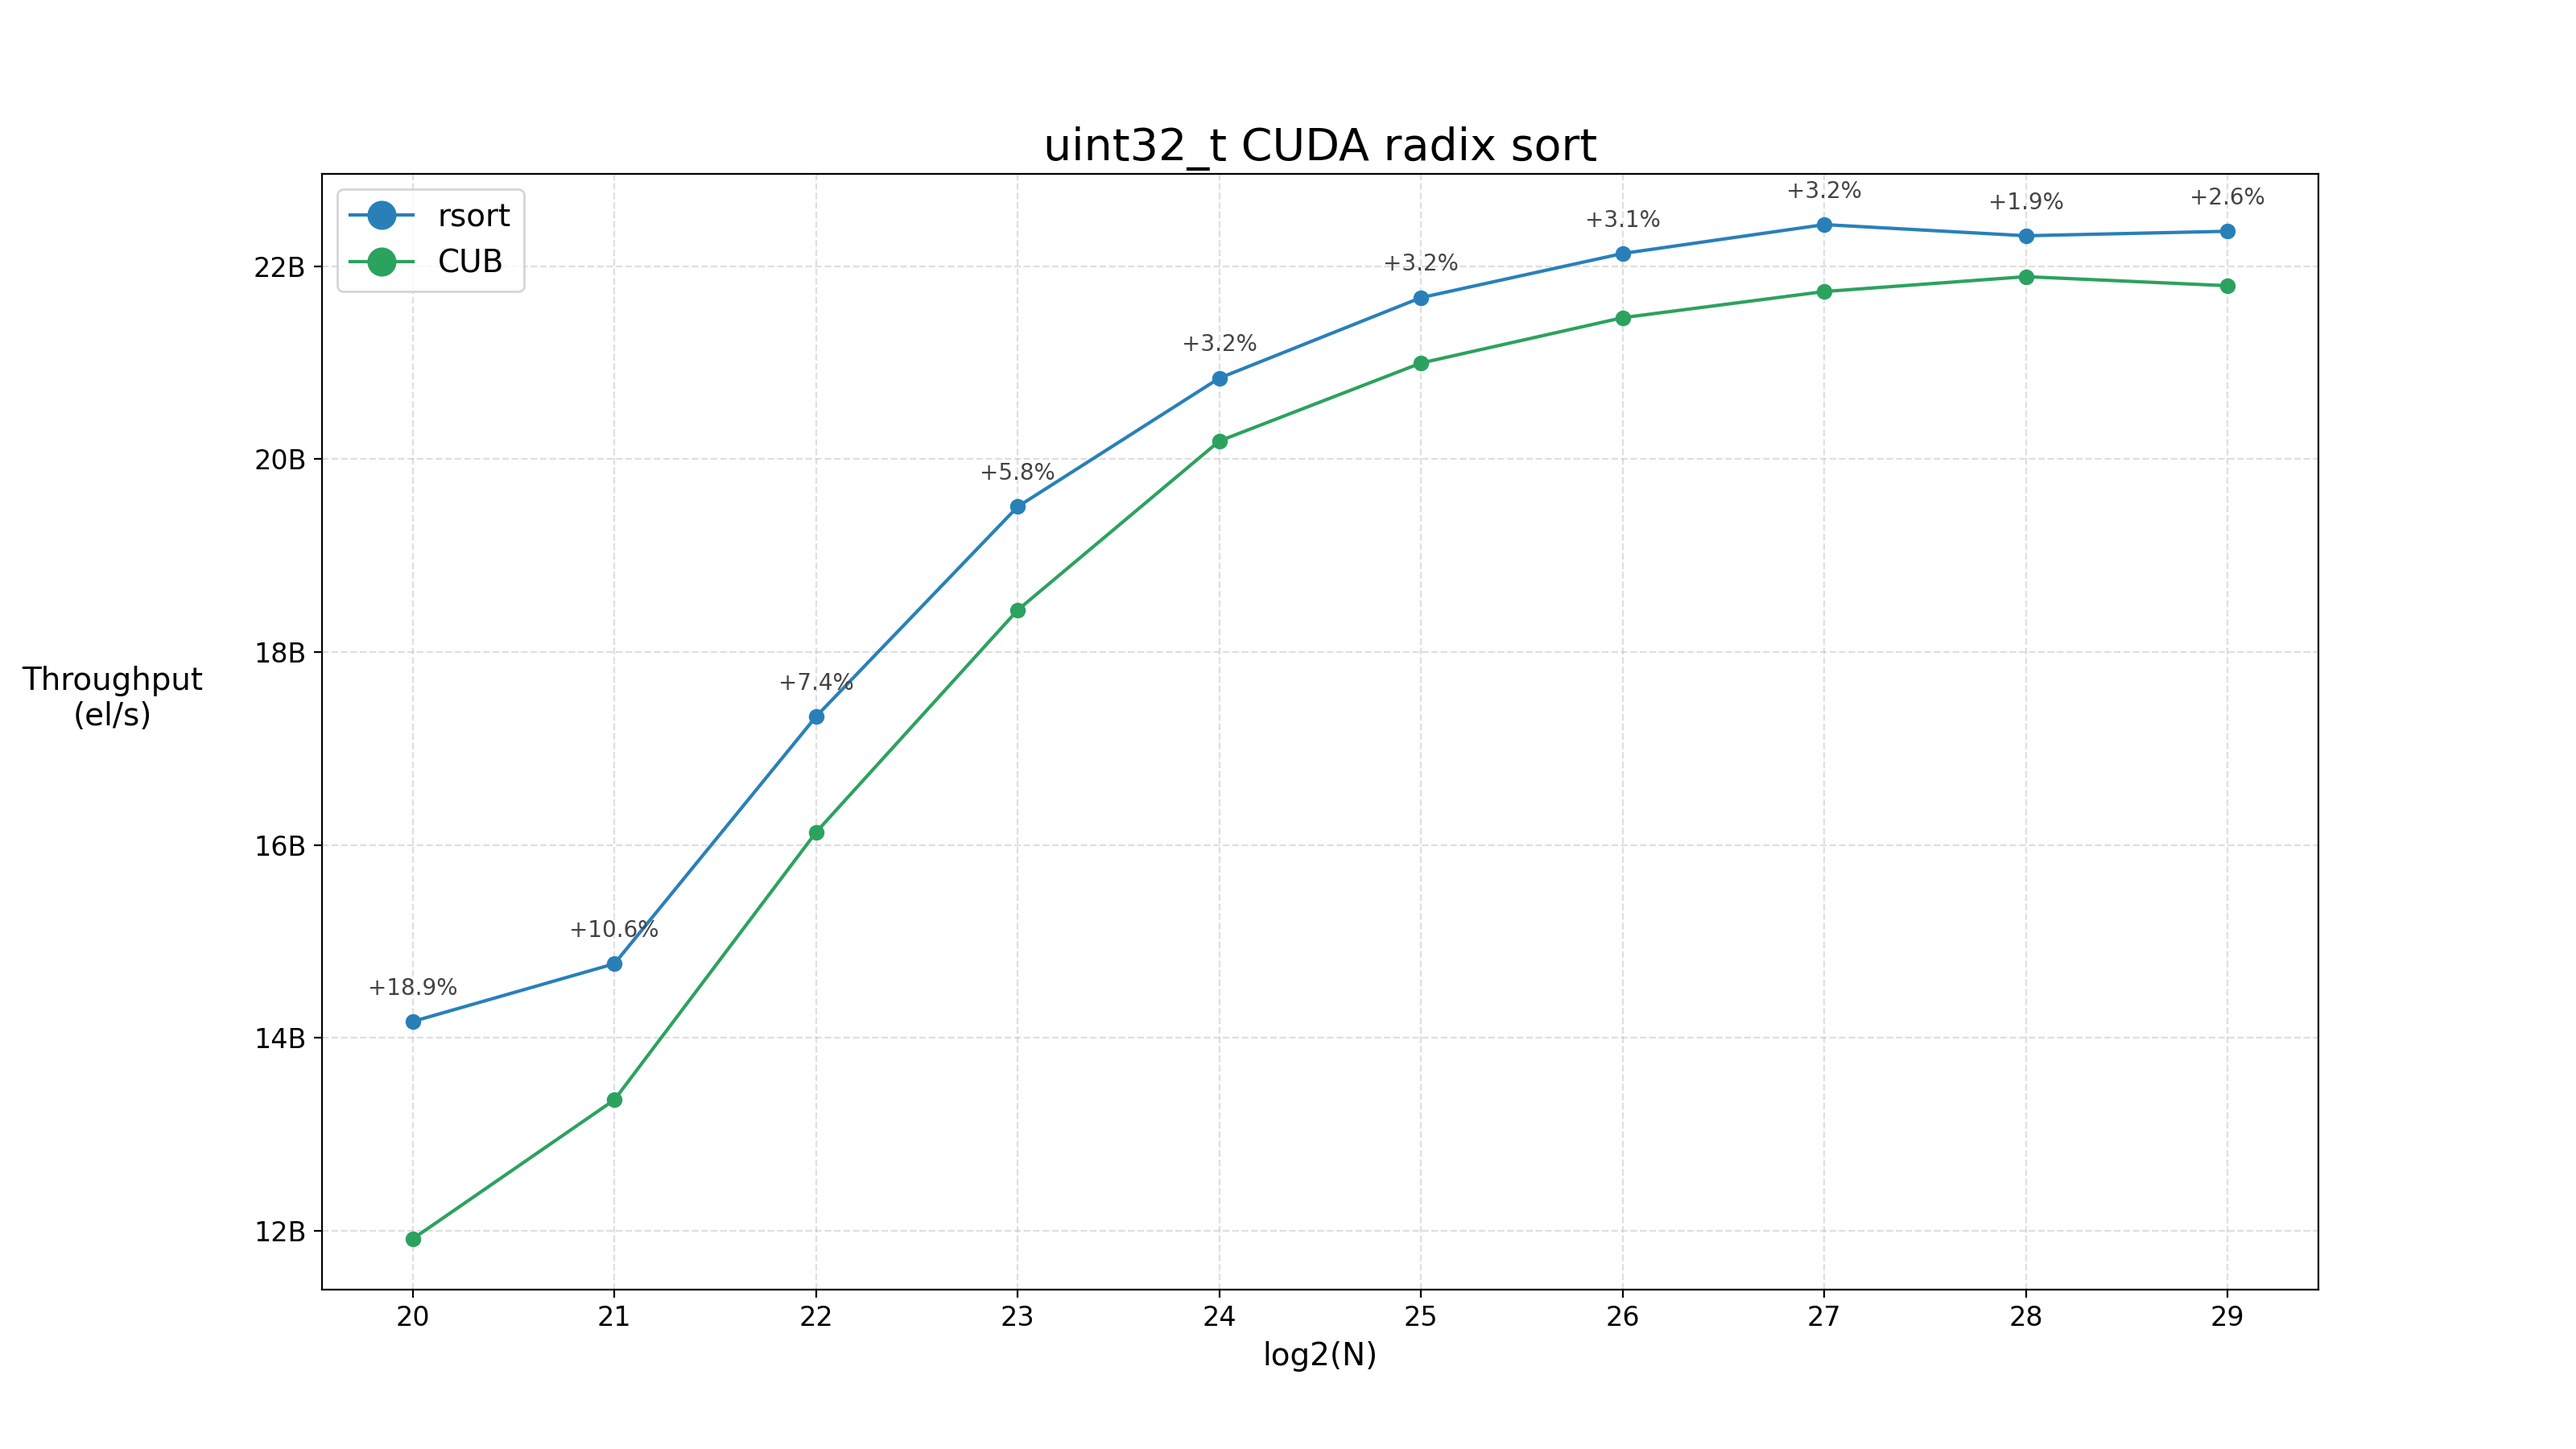
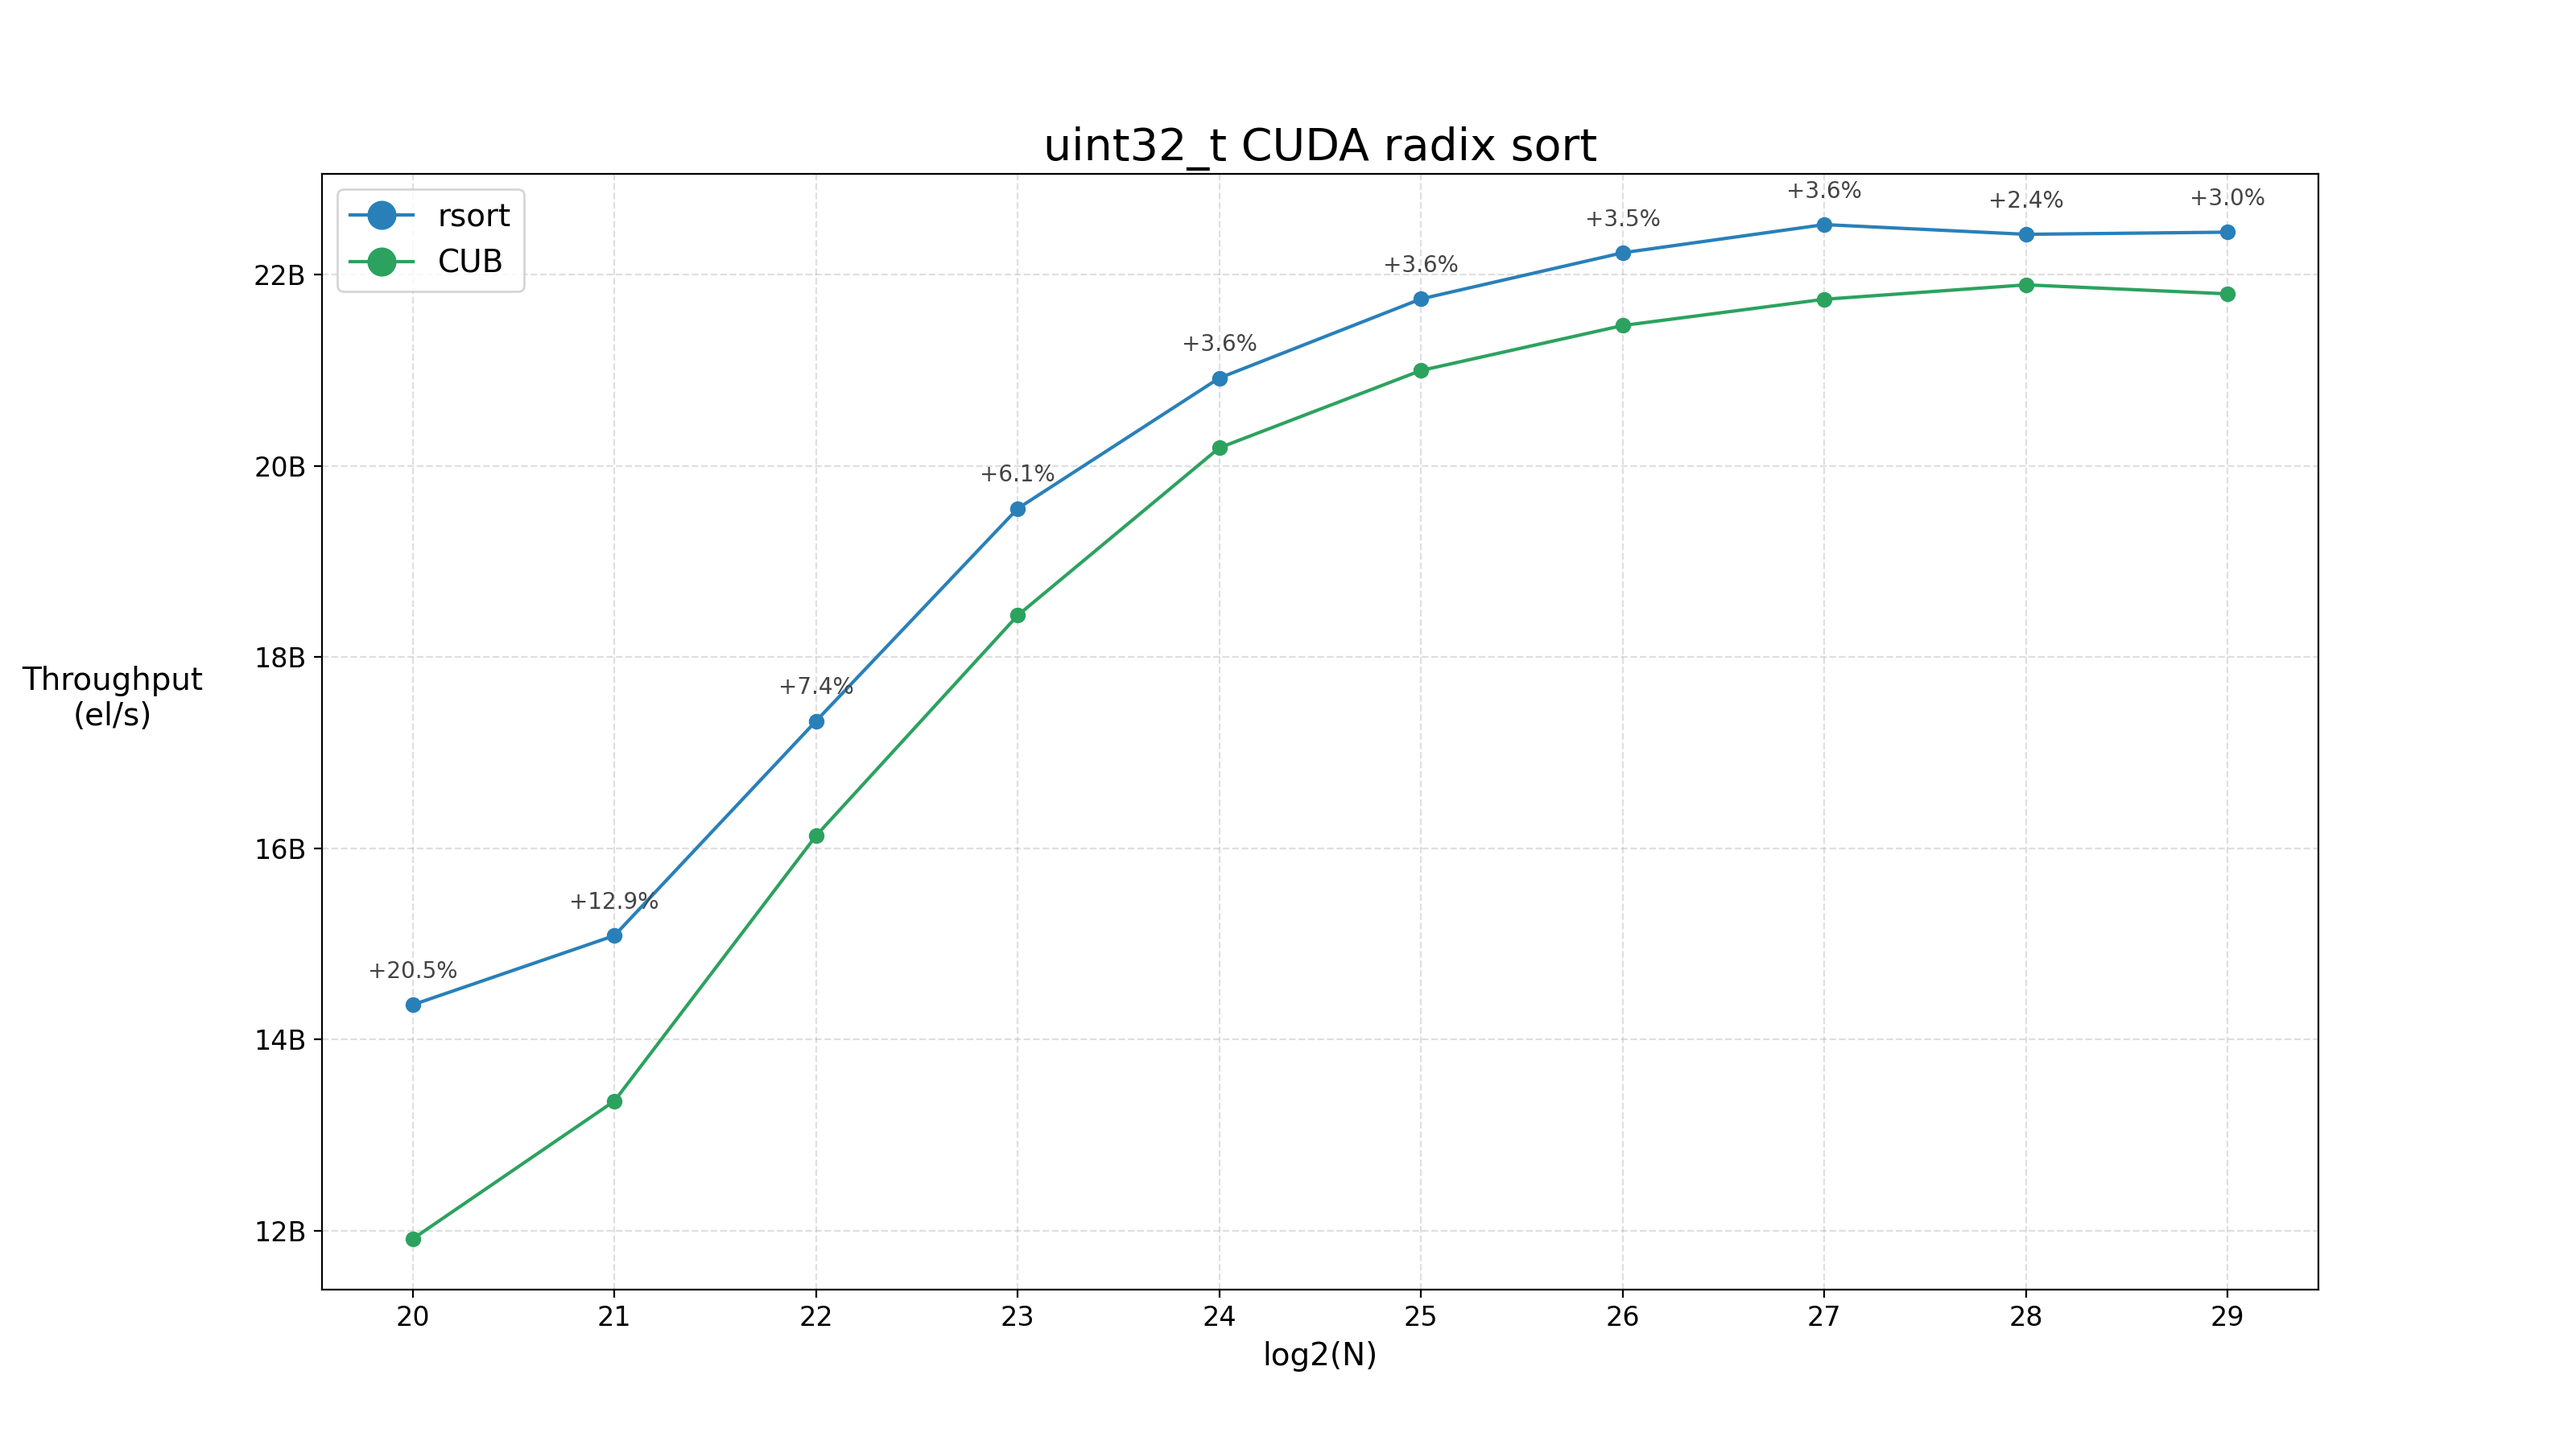
benchmarking histogram changes

diff --git a/README.md b/README.md
@@ -215,7 +215,7 @@ In addition, all experiments correspond to sorting unsigned keys in ascending or
 
 ### Scaling Behavior
 
-For 32-bit keys, rsort is faster across all tested array sizes, from 2<sup>20</sup> to 2<sup>29</sup> elements. Speedups are more pronounced for smaller arrays, starting in the double digits and eventually stabilizing around 3.6% as peak throughput is reached. Peak throughput for rsort is reached around 22.5B el/s for 2<sup>27</sup> elements. CUB peaks slightly lower, at around 21.9B el/s reached at 2<sup>28</sup> elements.
+For 32-bit keys, rsort is faster across all tested array sizes (from 2<sup>20</sup> to 2<sup>29</sup> elements). Speedups are more pronounced for smaller arrays, starting in the double digits and eventually stabilizing around 3.6% as peak throughput is reached. Peak throughput for rsort is reached around 22.5B el/s for 2<sup>27</sup> elements. CUB peaks slightly lower, at around 21.9B el/s reached at 2<sup>28</sup> elements.
 It's interesting to note the drop in throughput from 2<sup>28</sup> elements onwards for rsort, as it coincides with the policy change that disables epoch bits in the lookback path. Surprisingly, rsort still leads by around 2.4% with epoch bits turned off.  For 32 bits, rsort uses 21 items per thread and 384 threads per block, which, as far as I can tell, is the same CTA geometry CUB uses for this scenario in sm_86. Rsort pipeline being optimized for an 8-bit radix onesweep makes a strong case against CUB's more general policies, at least for high-throughput scenarios. Lookback epoch bits seem to provide the largest relative advantage for smaller arrays.
 
 <p align="center">
@@ -223,7 +223,7 @@ It's interesting to note the drop in throughput from 2<sup>28</sup> elements onw
   <img src="data/graphs/scaling_uint64_t.png" width="49%" />
 </p>
 
-For 64-bit keys, the story changes slightly. CUB starts behind by a more modest margin for smaller arrays (mainly sizes 2<sup>21</sup> and 2<sup>22</sup>), but the margin widens in favor of rsort for larger arrays. rsort uses 704 threads per block and 7 items per thread to sort 64-bit keys for larger arrays in sm_86; changing the policy to match CUB's geometry seems to yield very similar results. Other knobs in rsort's reorder and lookback policy do not seem to move performance significantly either. Eventually, rsort reaches a 5.8% performance gain with a peak throughput of around 6.02B el/s, before falling to a 4.8% gain when turning off the lookback epoch policy, at an array size of 2<sup>28</sup>. CUB's throughput peaks at around 5.69B el/s.
+For 64-bit keys, the tendency changes slightly. Excluding the first array size, CUB starts behind by a more modest margin for smaller arrays (mainly sizes 2<sup>21</sup> and 2<sup>22</sup>), but the margin widens in favor of rsort for larger arrays. rsort uses 704 threads per block and 7 items per thread to sort 64-bit keys for larger arrays in sm_86; changing the policy to match CUB's geometry seems to yield very similar results. Other knobs in rsort's reorder and lookback policy do not seem to move performance significantly either. rsort also does very well for smaller arrays, with a lead of 7.8% for array size of 2<sup>20</sup>. Eventually, rsort reaches a 5.8% performance gain with a peak throughput of around 6.02B el/s, before falling to a 4.8% gain when turning off the lookback epoch policy, at an array size of 2<sup>28</sup>. CUB's throughput peaks at around 5.69B el/s.
 
 Overall, standard deviations seem to be tighter for rsort across most sizes, although for 64-bit keys, CUB seems to present less jitter on average (check [benchmark_data](data/logs/benchmark_data.py)). Worth noting that, in my testing, even using an average of 30 runs along with a hefty warmup configuration, standard deviation still varies significantly from run to run, so it is better to focus on the global picture and not read too much into specific values.
 
@@ -234,11 +234,11 @@ Overall, standard deviations seem to be tighter for rsort across most sizes, alt
 
 For 8 and 16 bits, rsort wins more clearly all around. The CTA geometry used by rsort for both cases is the same as for 32 bits. As far as I could tell, CUB does not use onesweep for keys smaller than 32 bits on sm_86, and the radix is also smaller than 8 bits. I'm not sure of the reasons behind this choice. Perhaps memory management, although looking at memory consumption, the two algorithms do not seem significantly different. Still, this means these two graphs are not comparing implementations of the same algorithm at all anymore.
 
-For 8-bit keys, initial gains for smaller arrays range from 30% to 50% (except for arrays of size 2<sup>21</sup>), eventually dropping down to a 20% performance lead at a peak throughput of around 89.7B el/s reached for an array of 2<sup>29</sup> elements. Performance then drops again to 16%-17% from sizes 2<sup>30</sup> onwards, as rsort's lookback policy is forced into 64 bits. Interestingly, we don't see the same behaviour of dropping throughput when disabling lookback from sizes 2<sup>28</sup> to 2<sup>30</sup> that we saw for 32 and 64 bits. This is possibly explained by the smaller keys requiring larger array sizes to achieve peak throughput numbers. In fact, even at N = 2<sup>31</sup>, CUB is still peaking throughput at around 73.7B el/s.
+For 8-bit keys, initial gains for smaller arrays range from 30% to 50% (except for arrays of size 2<sup>21</sup>), eventually dropping down to a 22% performance lead at a peak throughput of around 89.7B el/s reached for an array of 2<sup>29</sup> elements. Performance then drops again to 17%-19% advantage from sizes 2<sup>30</sup> onwards, as rsort's lookback policy is forced into 64 bits. Interestingly, we don't see the same behaviour of dropping throughput when disabling lookback from sizes 2<sup>28</sup> to 2<sup>30</sup> that we saw for 32 and 64 bits. This is possibly explained by the smaller keys requiring larger array sizes to achieve peak throughput numbers. In fact, even at N = 2<sup>31</sup>, CUB is still peaking throughput at around 73.7B el/s.
 
 It is also worth mentioning the peak in throughput that happens at N = 2<sup>21</sup> for CUB. This appears to be an artefact of memory and how data fits in the GPU rather than an algorithmic quirk. In fact, at 1 byte per element and only 1-2M elements, I'd argue the most likely explanation is that the whole array and workspace memory fits in the GPU's L2 6MB cache. This is further corroborated by the fact that timings are almost identical for arrays of 2<sup>20</sup> and 2<sup>21</sup> 8-bit elements.
 
-For 16 bits, rsort's performance gains are more pronounced, reaching a 117% speedup for N = 2<sup>22</sup>, eventually stabilizing at around a 70% at a peak throughput of 60.2B el/s for an array of 2<sup>29</sup> elements. The same situation seen in the 8-bit scenario then happens as the lookback is forced into 64 bits for array sizes of 2<sup>30</sup> onwards in rsort. In turn, CUB reaches a peak throughput of around 35.1B el/s for N = 2<sup>30</sup>.
+For 16 bits, rsort's performance gains are more pronounced, reaching a 117% speedup for N = 2<sup>22</sup>, eventually stabilizing at slightly over 70%, for a peak throughput of 60.2B el/s for an array of 2<sup>29</sup> elements. The same situation seen in the 8-bit scenario then happens as the lookback is forced into 64 bits for array sizes of 2<sup>30</sup> onwards in rsort. In turn, CUB reaches a peak throughput of around 35.1B el/s for N = 2<sup>30</sup>.
 
 It is interesting to note that if we think about throughput in terms of sorted bytes per second instead of sorted elements per second, we see that, for 8 bits, 89.7B bytes/s is close to the 22.5 x 4 = 90.0B bytes/s figure we saw for 32-bit (4 bytes) peak throughput. However, the throughput for 16-bit keys is considerably higher, reaching a peak of 60.2 x 2 = 120.4B bytes/s, or 112.1GiB/s, or (setting aside the parallelism of things for a minute) an even crazier 8.31 picoseconds per sorted byte! Enough for light to travel about 2.5mm. Remember this the next time your favourite AAA title dips below 60 fps... maybe the hardware isn’t the only thing to blame! 😀  
  
@@ -255,8 +255,8 @@ In practice, keys are almost always staged directly. Values are staged directly 
 
 The graph shows the results of sorting a combination of 32 and 64-bit keys and values, in rsort and CUB, for an array size of 2<sup>27</sup>.
 The current rsort policy stages all keys and values directly for all these test cases.
-For 32-bit keys and values, rsort achieves a throughput of 11.8B el/s, outperforming CUB's 11.4B el/s by 3.6%. As the size of the key-value pair increases, the advantage of rsort becomes more pronounced. For 64-bit keys with 32-bit values, the lead grows to 7.5%, while for 32-bit keys with 64-bit values, rsort is 6.7% faster. 64-bit keys obviously take more time in general as the number of actual radix passes doubles.
-The largest improvement is observed when sorting 64-bit keys paired with 64-bit values, where rsort reaches 3.03B el/s and outperforms CUB's by 12.6%.
+For 32-bit keys and values, rsort achieves a throughput of 11.8B el/s, outperforming CUB's 11.4B el/s by 3.6%. As the size of the key-value pair increases, the advantage of rsort becomes more pronounced. For 64-bit keys with 32-bit values, the lead grows to 7.7%, while for 32-bit keys with 64-bit values, rsort is 6.9% faster. 64-bit keys obviously take more time in general as the number of actual radix passes doubles.
+The largest improvement is observed when sorting 64-bit keys paired with 64-bit values, where rsort reaches 3.03B el/s and outperforms CUB's by 12.2%.
 
 
 
@@ -268,7 +268,7 @@ These benchmarks were carried out in _steady-state_ with significant warmup. Thi
   <img src="data/graphs/cold_vs_steady_uint32_n27.png" width="65%" />
 </p>
 
-In this experiment, CUB achieves a throughput of 21.7B el/s on _steady-state_ vs. 21.5B el/ for  _cold-state_, corresponding to a performance drop of around 0.9%. In turn, rsort manages 22.5B el/s for _steady-state_ vs 22.4B el/s on _cold-state_, which translates to a 0.6% drop. This corresponds to an advantage of around 3.2% for rsort in _steady-state_ and 3.3% in _cold-state_. 
+In this experiment, CUB achieves a throughput of 21.7B el/s on _steady-state_ vs. 21.5B el/ for  _cold-state_, corresponding to a performance drop of around 0.9%. In turn, rsort manages 22.5B el/s for _steady-state_ vs 22.4B el/s on _cold-state_, which translates to a 0.6% drop. This corresponds to an advantage of around 3.6% for rsort in _steady-state_ and 4% in _cold-state_. 
 Standard deviations seem tighter for rsort in both states. However, to establish a pattern for _cold-state_ would necessitate more extensive scaling benchmarking, as done for _steady-state_.
 
 
@@ -281,7 +281,7 @@ For this experiment, we are again using _steady-state_ with 32-bit arrays of 2<s
 </p>
 
 Results show a throughput increase from 21.7B to 22.1B el/s (+1.6%) for CUB when switching from random to byte-skipped arrays. This was somewhat surprising to profile, as I assumed the work skipped would be much closer to the theoretical 50%. Still, not performing any GPU work for 2 of the 4 bytes should have rsort decrease timings to about half, giving it an advantage. Indeed, results show that rsort's throughput jumps to around 40.3B el/s when sorting byte-skipped arrays in this scenario.
-As for array mode variance, results show a 2.8% performance gain for random arrays (with early-exiting enabled) against CUB, and 82.7% for short-circuiting versus early-exiting in byte-skipped arrays.
+As for array mode variance, results show a 3.3% performance gain for random arrays (with early-exiting enabled) against CUB, and 82.5% for short-circuiting versus early-exiting in byte-skipped arrays.
 
 Paying attention to the baseline random initialization results for rsort, one might raise the question as to why the timings are 5.974 ms instead of the 5.959 ms seen in the last test with the same setup. This is because early-exiting is, as of yet, not enabled by default in rsort, and in this scenario, we are paying the cost of the mechanism explicitly. Still, in testing, the measured cost for early-exit stayed within the 10-25 µs range (15 µs here), so it's safe to say that it's not an overtly expensive optimization to perform. Also, note that the performance cost of early-exiting is solely linearly dependent on the number of passes, and constant otherwise.
 
